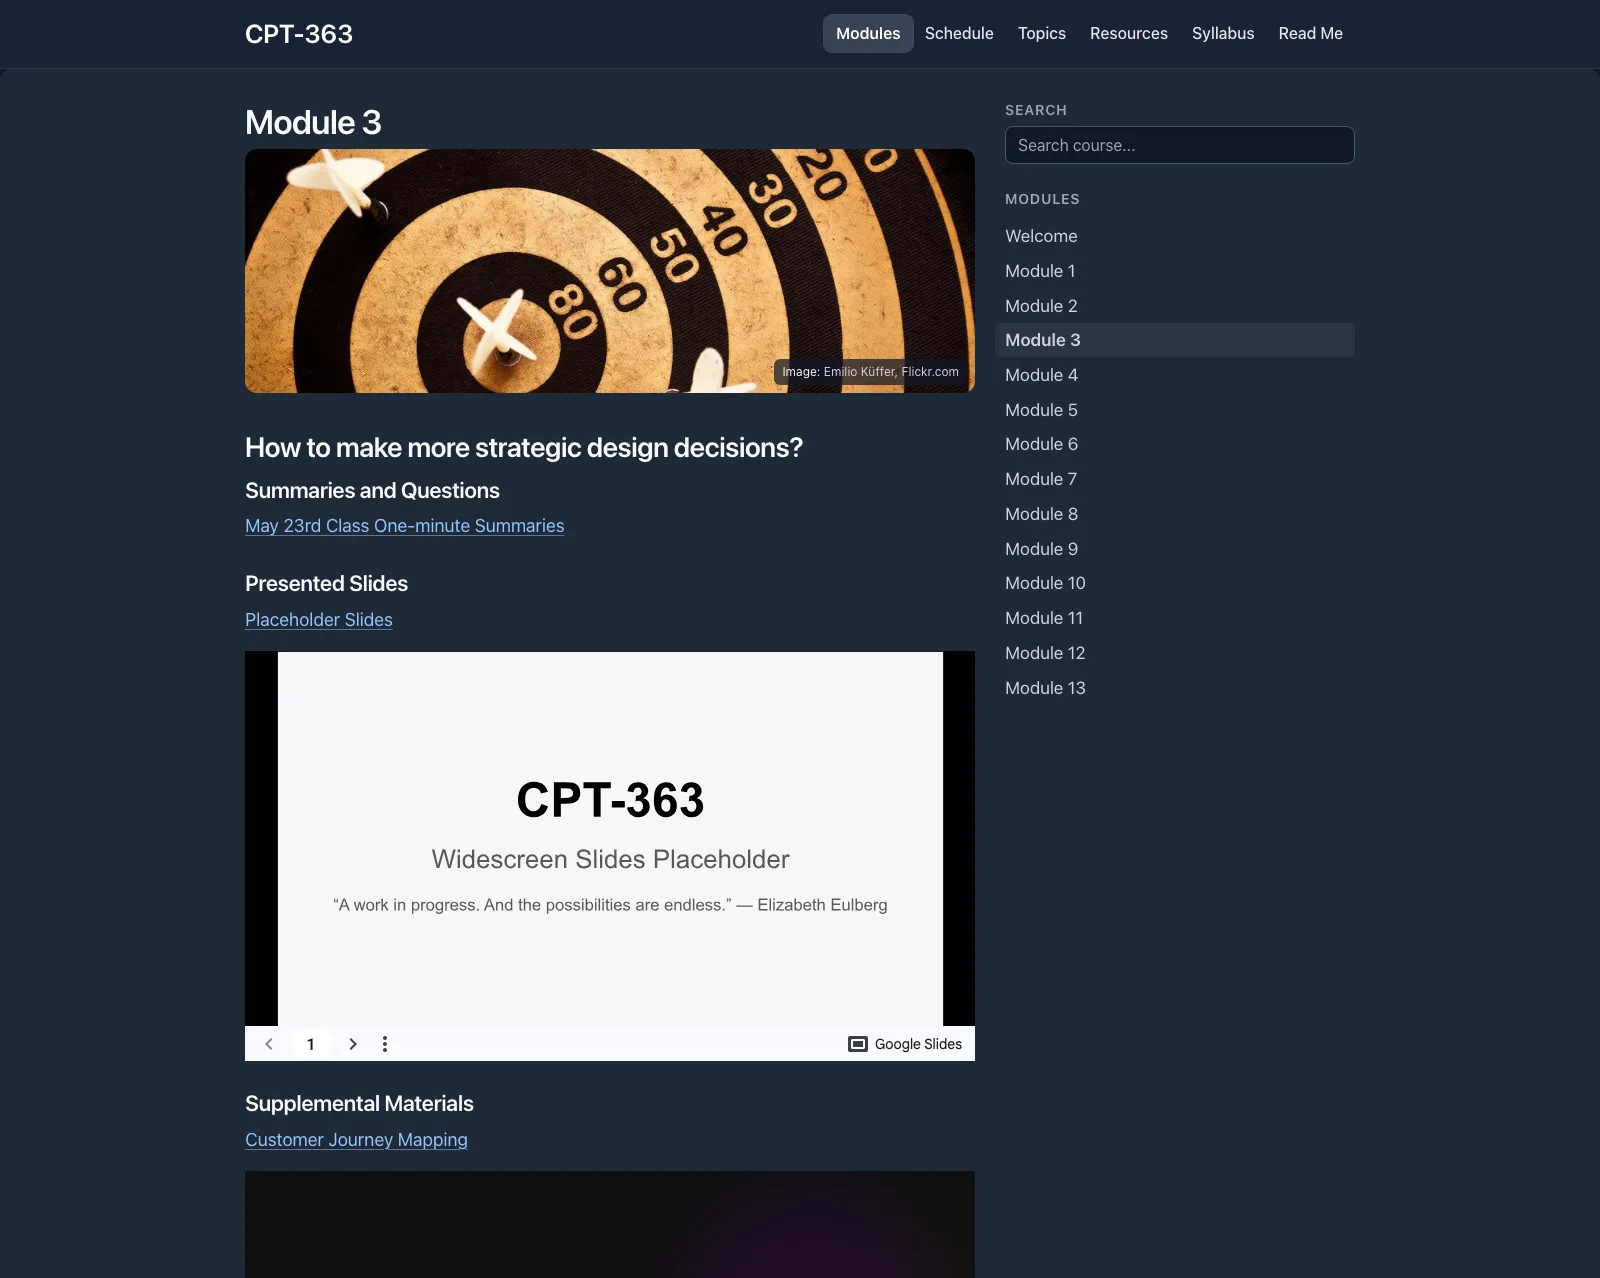
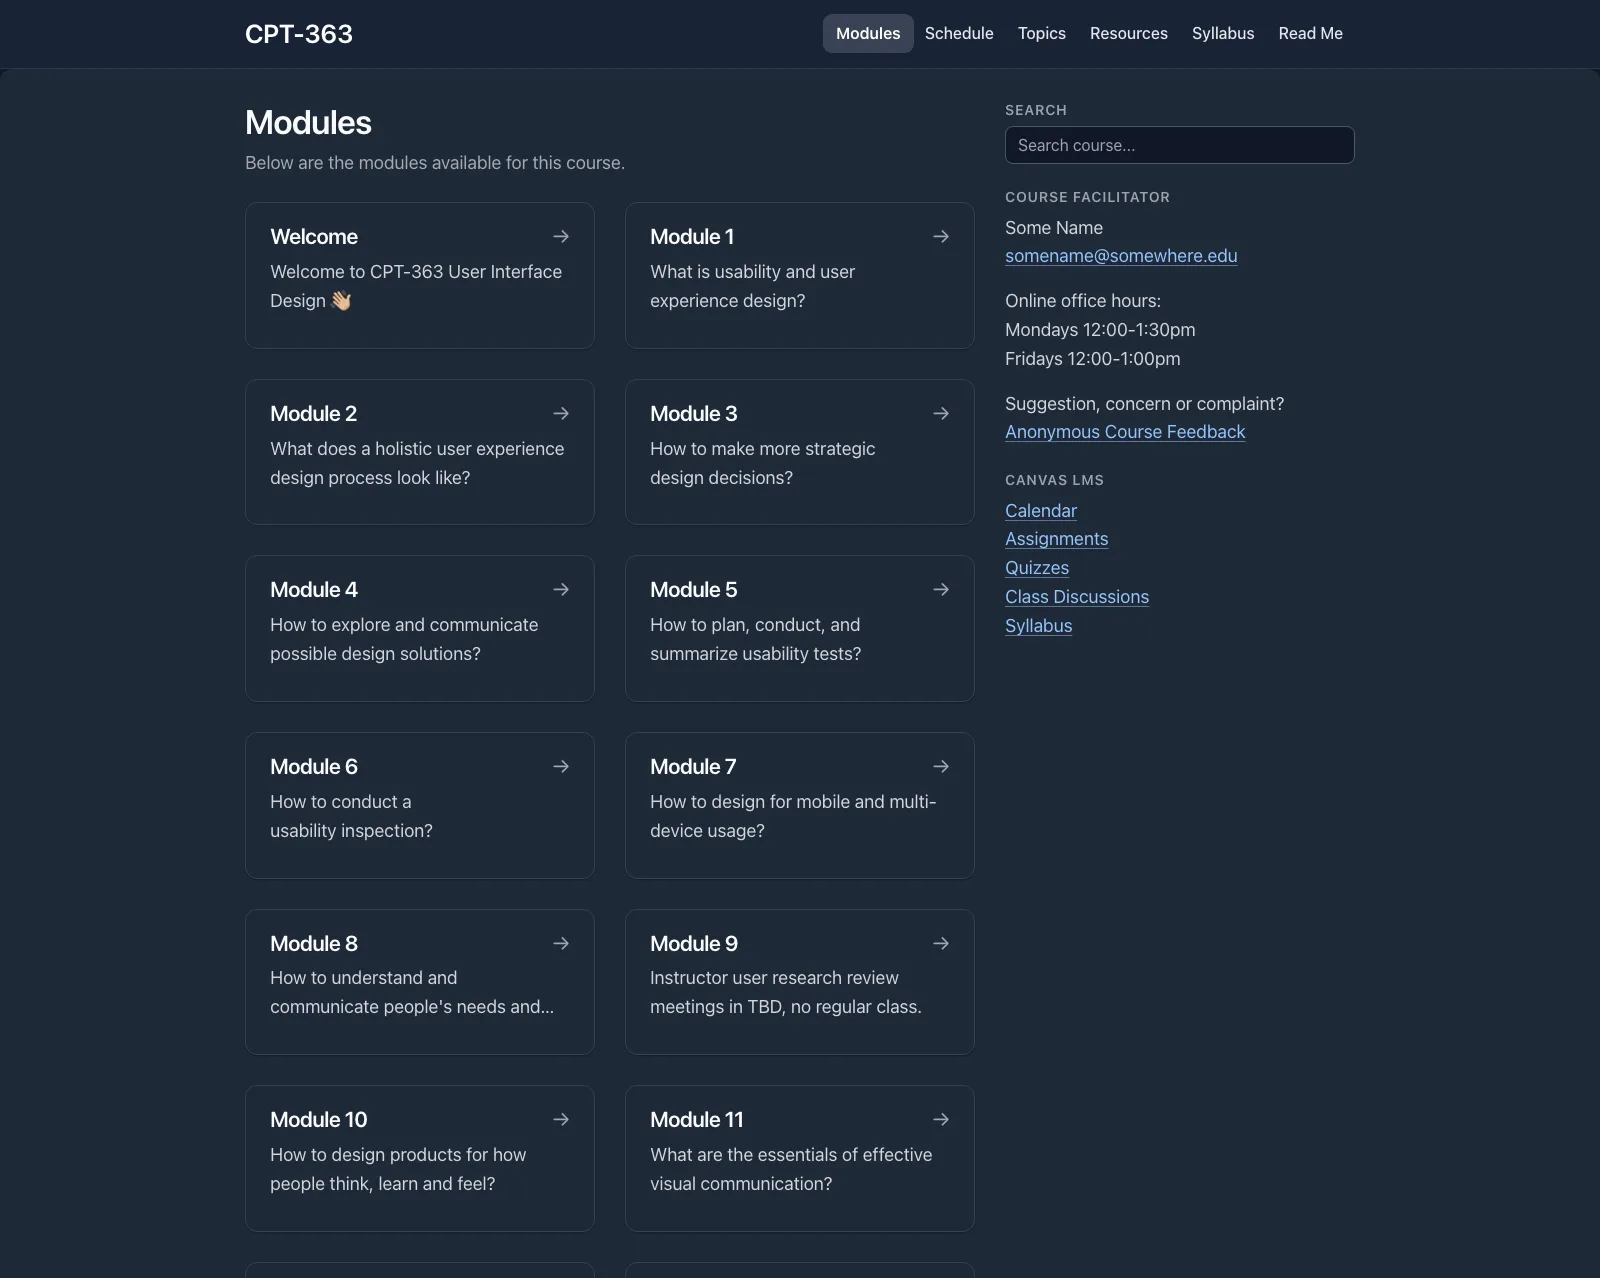
Show the Modules page in the README's module screenshot, matching the MultiCourse Hub README.

Changed region(s): [[0.125, 0.0915, 0.8125, 1.0]]

diff --git a/README.md b/README.md
@@ -14,9 +14,9 @@
 
 <a href="https://raw.githubusercontent.com/hibbitts-design/grav-skeleton-course-hub/refs/heads/master/screenshots/screenshot.webp"><picture><source media="(prefers-color-scheme: dark)" srcset="https://raw.githubusercontent.com/hibbitts-design/grav-skeleton-course-hub/refs/heads/master/screenshots/screenshot-dark.webp"><img alt="Course homepage with weekly reminders, required reading, and a course sidebar with LMS links" src="https://raw.githubusercontent.com/hibbitts-design/grav-skeleton-course-hub/refs/heads/master/screenshots/screenshot.webp" width="49%"></picture></a> <a href="https://raw.githubusercontent.com/hibbitts-design/grav-skeleton-course-hub/refs/heads/master/screenshots/screenshot-2.webp"><picture><source media="(prefers-color-scheme: dark)" srcset="https://raw.githubusercontent.com/hibbitts-design/grav-skeleton-course-hub/refs/heads/master/screenshots/screenshot-2-dark.webp"><img alt="Week 1 page with a header photo, the week's question, class summaries, and embedded slides, with the course sidebar" src="https://raw.githubusercontent.com/hibbitts-design/grav-skeleton-course-hub/refs/heads/master/screenshots/screenshot-2.webp" width="49%"></picture></a>
 
-<a href="https://raw.githubusercontent.com/hibbitts-design/grav-skeleton-course-hub/refs/heads/master/screenshots/screenshot-3.webp"><picture><source media="(prefers-color-scheme: dark)" srcset="https://raw.githubusercontent.com/hibbitts-design/grav-skeleton-course-hub/refs/heads/master/screenshots/screenshot-3-dark.webp"><img alt="Module 3 page with a header photo and the module's content, with the course search and the list of modules on the right" src="https://raw.githubusercontent.com/hibbitts-design/grav-skeleton-course-hub/refs/heads/master/screenshots/screenshot-3.webp" width="49%"></picture></a>
+<a href="https://raw.githubusercontent.com/hibbitts-design/grav-skeleton-course-hub/refs/heads/master/screenshots/screenshot-3.webp"><picture><source media="(prefers-color-scheme: dark)" srcset="https://raw.githubusercontent.com/hibbitts-design/grav-skeleton-course-hub/refs/heads/master/screenshots/screenshot-3-dark.webp"><img alt="Modules page with a card for each module, and the course sidebar on the right" src="https://raw.githubusercontent.com/hibbitts-design/grav-skeleton-course-hub/refs/heads/master/screenshots/screenshot-3.webp" width="49%"></picture></a>
 
-<p>Open Course Hub – Course homepage (left), a weekly unit page (right), and a module page from the optional Modules example (below)</p>
+<p>Open Course Hub – Course homepage (left), a weekly unit page (right), and the Modules page from the optional Modules example (below)</p>
 
 </div>
 
